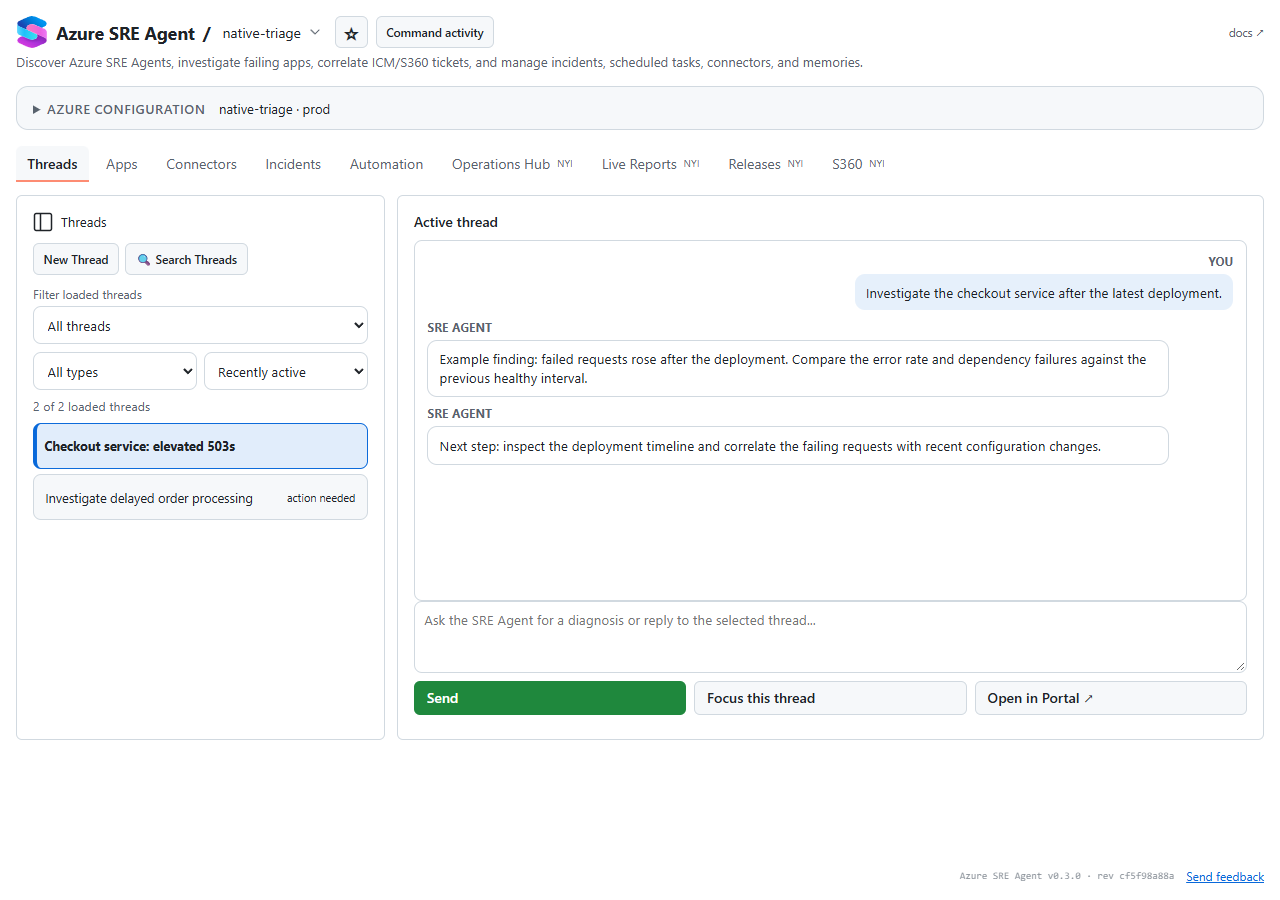
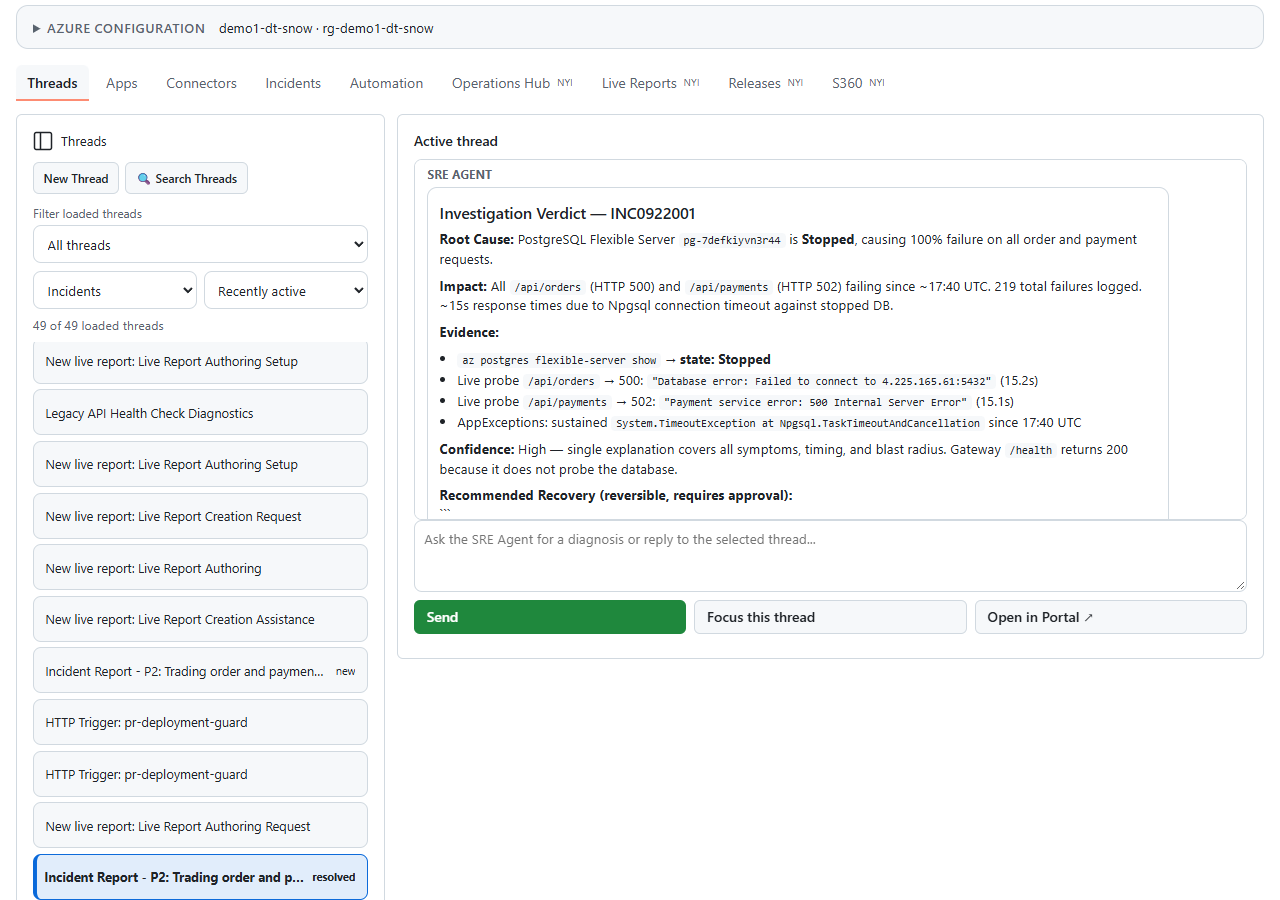
Use real demo agent investigation for SRE README screenshot

diff --git a/canvases/azure-sre-agent/README.md b/canvases/azure-sre-agent/README.md
@@ -3,9 +3,9 @@
 Diagnose a failing Azure app with an existing SRE Agent, inspect the resulting
 investigation, and continue from its active thread.
 
-![Azure SRE Agent Copilot canvas showing investigation threads and a selected example analysis.](docs/preview.png)
+![Azure SRE Agent canvas showing a Contoso Trading incident investigation on demo1-dt-snow.](docs/preview.png)
 
-*Illustrative fixture data in the actual GitHub Copilot canvas layout.*
+*An existing Contoso Trading incident investigation on the demo1-dt-snow SRE Agent in GitHub Copilot.*
 
 ## Install
 
